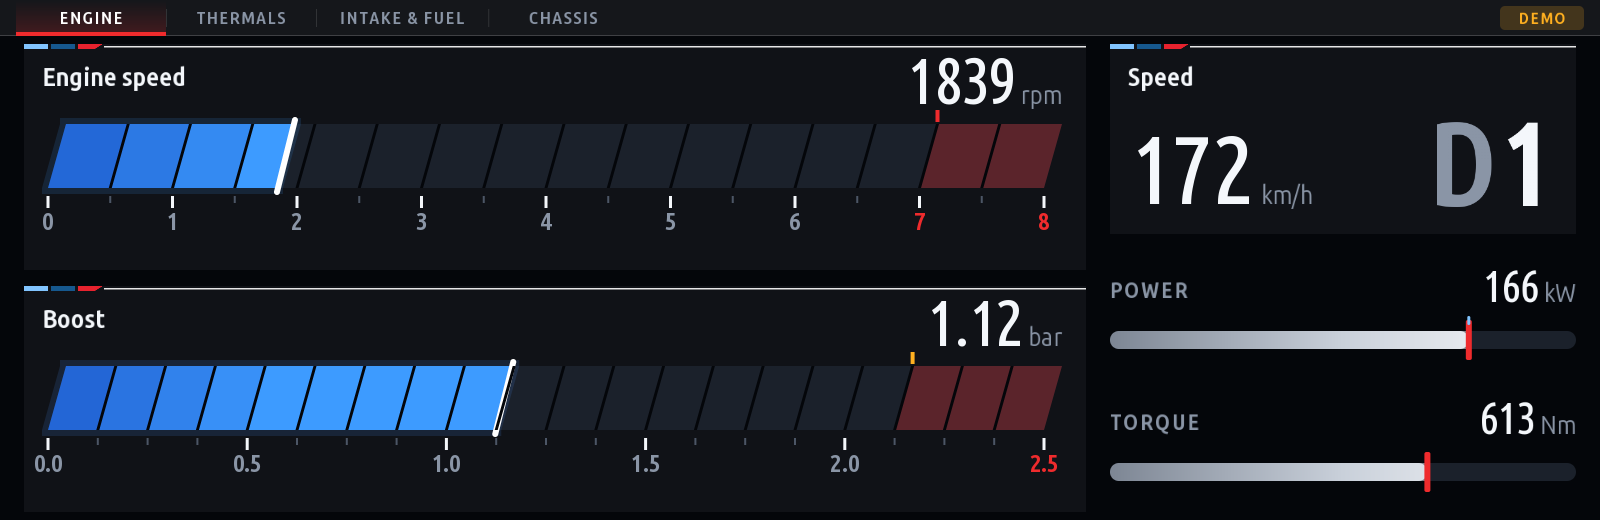
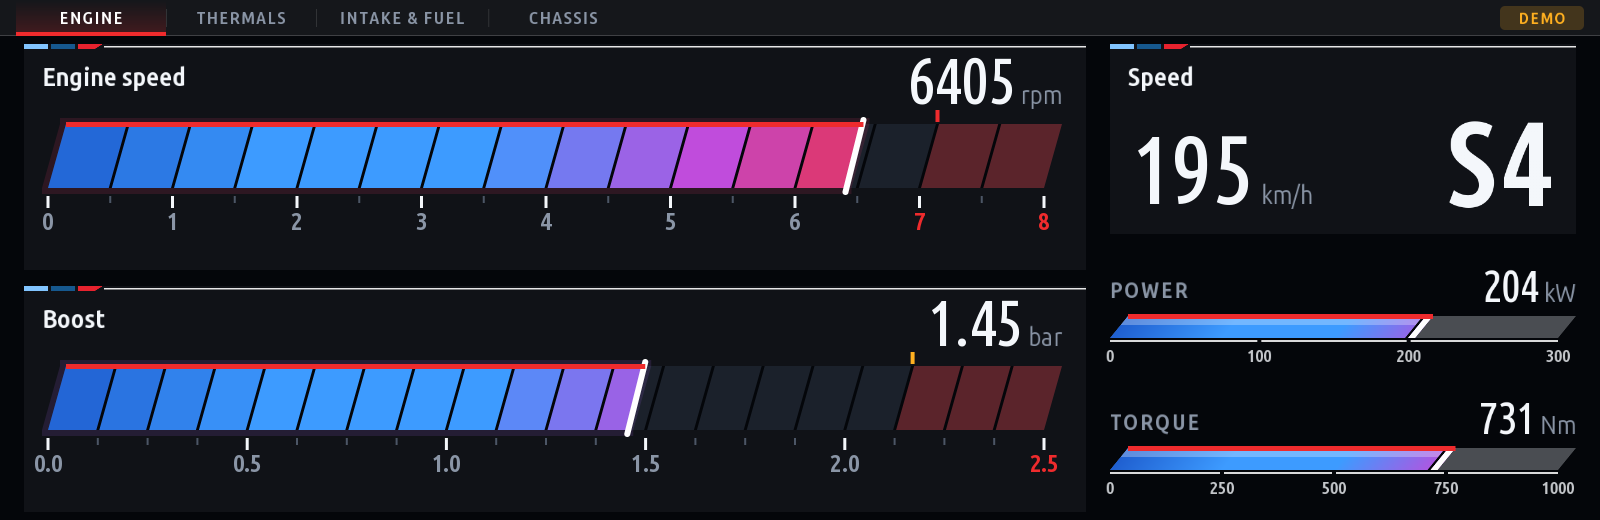
OEM-style bars with peak hang and tach colours (M Vitals, G-Force, Warm-Up, eDrive, Redline)
- Bars in the G20 sport-display style: slanted grey track, fill with a lighter upper half
  and a white leading stripe, white scale line broken at each step with numbers, scale
  ending on a round number (niceMax)
- Fill in the tach colours along the scale (theme hotRamp: blue -> purple -> red in
  M Tricolour) for power, torque, rpm, boost, G-Force, xDrive, battery health and the
  Warm-Up dials (red from 120 deg C); worn battery still turns amber / red
- Peak "hang" like the OEM display: a thick line along the top edge to the peak and
  down its slanted end (red in M Tricolour, the fill colour in the other themes);
  hidden for peaks in the first 2 % of the scale. Redline tach: only the slanted mark
- M Vitals demo data keeps its own peaks, so they never mix with the car's
- Versions bumped; README screenshots updated

Claude-Session: https://claude.ai/code/session_01G89YVjbLtqWwckvonFV4nZ

diff --git a/kit/runtime/gauges.js b/kit/runtime/gauges.js
@@ -134,32 +134,68 @@ function radialLive(cv, t, cx, cy, r, g, min, max, thick, v, f) {
     if (isNum(g.peak) && g.showPeak !== false) cv.text('PEAK ' + fmt(g.peak, g.decimals), cx, cy + r * 0.82 + 32, 22, t.accent2, { align: 'center', font: 'label', spacing: 1 });
 }
 
-/** Horizontal bar gauge with label / value header: a slim rounded track filled with the theme ramp. */
+/** Nice scale step (1, 2, 2.5, 5 x 10^n) for about n divisions of max. */
+function niceStep(max, n) {
+    const raw = max / n, e = Math.pow(10, Math.floor(Math.log10(raw)));
+    return [1, 2, 2.5, 5, 10].map((m) => m * e).find((v) => v >= raw * 0.999) || raw;
+}
+
+/** Slanted slab (OEM bar shape): x0..x1 measured on the bottom edge, top edge shifted right by sl. */
+function slab(cv, x0, x1, y, h, sl, c) {
+    if (x1 - x0 <= 0) return;
+    for (let r = 0; r < h; r++) cv.fillRect(x0 + sl * (h - r - 0.5) / h, y + r, x1 - x0, 1, c);
+}
+
+/**
+ * Bar gauge in the OEM (G20 sport display) style: label / value header, a slanted grey track,
+ * the fill in the theme's bar colour (lighter upper half) ending in a white stripe, a white
+ * scale line under it with numbers, and the peak ("hang") as an outline along the top edge.
+ * g.niceMax: extend the scale to the next round number (0-400 rather than 0-285).
+ * g.ramp = 'hot': fill in the tach colours along the scale (the theme's hotRamp) instead of one colour;
+ * g.color: fill colour (theme key or #hex) instead of the theme's bar colour.
+ */
 function bar(cv, t, x, y, w, h, g) {
-    const min = g.min || 0, max = g.max == null ? 100 : g.max, v = g.value;
+    const min = g.min || 0, v = g.value;
+    let max = g.max == null ? 100 : g.max;
+    const step = g.step || niceStep(max - min, 4);
+    if (g.niceMax) max = min + Math.ceil((max - min) / step - 1e-9) * step;       // scale ends on a round number (OEM)
     const f = isNum(v) ? clamp((v - min) / (max - min), 0, 1) : 0;
     cv.text(String(g.label || '').toUpperCase(), x, y + 26, 22, t.dim, { font: 'bold', spacing: 2 });
     const vs = fmt(v, g.decimals);
     const uw = g.unit ? cv.textWidth(' ' + g.unit, 26) : 0;
     cv.text(vs, x + w - uw, y + 30, 44, isNum(v) ? t.text : t.dim, { align: 'right', font: 'num' });
     if (g.unit) cv.text(' ' + g.unit, x + w, y + 30, 26, t.dim, { align: 'right' });
-    const room = h - 44, bh = Math.max(8, Math.min(room, 18)), by = y + 44 + (room - bh) / 2;
-    cv.roundRect(x, by, w, bh, bh / 2, t.track);
+    const bh = 22, by = y + 44, SL = 18, bw = w - SL;
+    const X = (val) => x + clamp((val - min) / (max - min), 0, 1) * bw;
+    slab(cv, x, x + bw, by, bh, SL, withAlpha('#d4d8de', 0.34));               // track
+    const base = g.color ? t[g.color] || g.color : t.bar || t.accent, col = zoneColor(t, g, v, base);
+    const stops = g.ramp === 'hot' && col === base ? t.hotRamp || t.ramp : null;
+    // fill: lighter upper part, white stripe at the leading edge (gap in the background colour)
     if (f > 0) {
-        const col = zoneColor(t, g, v);
-        const fw = Math.max(bh, w * f);
-        // rounded start, square end, so the '|' marker sits on a straight edge
-        const sq = Math.min(fw, bh / 2 + 1);
-        if (col !== t.accent || !t.ramp) { cv.roundRect(x, by, fw, bh, bh / 2, col); cv.fillRect(x + fw - sq, by, sq, bh, col); }
-        else { cv.rampRect(x, by, fw, bh, bh / 2, t.ramp, x, w); cv.rampRect(x + fw - sq, by, sq, bh, 0, t.ramp, x, w); }
-        // marker: theme colour, white when the bar itself is red / warning-coloured (else it would vanish)
-        const mk = col === t.crit || col === t.warn || col === t.marker ? t.text : t.marker || t.text;
-        cv.roundRect(x + fw - 3, by - 11, 6, bh + 22, 2, mk);
+        const xe = X(v), cap = 7, hi = mix(col, '#ffffff', 0.28), top = Math.round(bh * 0.42);
+        if (stops) {                                 // colour of its position on the scale, lighter upper part
+            const lite = stops.map((c) => mix(c, '#ffffff', 0.28));
+            for (let r = 0; r < bh; r++) { const o = SL * (bh - r - 0.5) / bh; cv.rampRect(x + o, by + r, xe - x, 1, 0.5, r < top ? lite : stops, x + o, bw); }   // r 0.5: full cover on a 1 px row
+        } else {
+            slab(cv, x, xe, by, bh, SL, col);
+            for (let r = 0; r < top; r++) cv.fillRect(x + SL * (bh - r - 0.5) / bh, by + r, xe - x, 1, hi);
+        }
+        if (xe - x > cap + 4) { slab(cv, xe - cap - 3, xe - cap, by, bh, SL, t.bg); slab(cv, xe - cap, xe, by, bh, SL, '#ffffff'); }
     }
-    if (isNum(g.peak)) {
-        const px = x + clamp((g.peak - min) / (max - min), 0, 1) * w;
-        cv.roundRect(px - 1.5, by - 15, 3, 9, 1.5, t.accent2);              // peak: small tick above the bar
+    // peak hold ("hang"): line along the top edge (over the fill) to the peak, then down its slanted end
+    if (isNum(g.peak) && (g.peak - min) / (max - min) > 0.02) {          // (not for a peak at the very start)
+        const px = X(g.peak), hc = t.hang || (stops ? ramp(stops, (px - x) / bw) : col);
+        cv.fillRect(x + SL, by - 2, px - x, 5, hc);
+        if (!isNum(v) || g.peak > v) cv.line(px + SL, by, px, by + bh, 4, hc);
     }
+    // scale: white line under the bar, broken at each step, numbers below (when there is room)
+    const dec = g.scaleDecimals != null ? g.scaleDecimals : step % 1 ? 1 : 0;
+    const marks = [];
+    for (let a = min; a <= max + 1e-9; a += step) marks.push(a);
+    if (max - marks[marks.length - 1] > step * 0.45) marks.push(max);           // label the end too
+    cv.fillRect(x, by + bh + 2, bw, 2, withAlpha('#ffffff', 0.85));
+    marks.slice(1).forEach((a) => { if (a < max - 1e-9) cv.fillRect(X(a) - 2, by + bh + 2, 4, 2, t.bg); });
+    if (h >= 80) marks.forEach((a) => cv.text(fmt(a, dec), X(a), by + bh + 24, 17, withAlpha(t.text, 0.8), { align: 'center', font: 'bold' }));
 }
 
 /**
@@ -201,9 +237,14 @@ function segBar(cv, t, x, y, w, h, g) {
         cv.line(xe, y1 + 4, xe + SL, y0 - 4, 6, '#ffffff');                  // bright leading edge
     }
     for (let a = min + step; a < max - 1e-9; a += step) gapAt(a, t.bg);
-    // marks above the bar (shift point, warm, ...) + peak
+    // peak hold ("hang", OEM style): line along the top edge (over the fill) to the peak, then down its slanted end
+    if (isNum(g.peak) && (g.peak - min) / (max - min) > 0.02) {          // (not for a peak at the very start)
+        const pk = Math.min(g.peak, max), pc = t.hang || (hot && pk >= lim ? '#ff2a2a' : hot ? ramp(t.hotRamp || t.ramp, clamp((pk - min) / (lim - min), 0, 1)) : zoneColor(t, g, pk, base));
+        cv.fillRect(bx + SL, y0 - 2, X(pk) - bx, 5, pc);
+        if (!isNum(v) || g.peak > v) cv.line(X(pk) + SL, y0, X(pk), y1, 4, pc);
+    }
+    // marks above the bar (shift point, warm, ...)
     for (const m of g.marks || []) { const xx = X(m.value) + SL; cv.fillRect(xx - 2, y0 - 14, 4, 12, t[m.color] || m.color); }
-    if (isNum(g.peak) && g.peak > min) { const xx = X(g.peak) + SL; cv.fillRect(xx - 1.5, y0 - 20, 3, 14, t.accent2); }
     // scale
     const sc = g.scale || {};
     for (let a = min; a <= max + 1e-9; a += step) {

diff --git a/apps/car_vitals/main.js b/apps/car_vitals/main.js
@@ -63,7 +63,7 @@ mgu.run({
         };
 
         /* ---------- live data ---------- */
-        const live = {}, peak = {}, hist = { coolant: [], oil: [], gearbox: [], ambient: [], iat: [], hpfp: [], lpfp: [], iatRise: [] };
+        const live = {}, peak = {}, demoPeak = {}, hist = { coolant: [], oil: [], gearbox: [], ambient: [], iat: [], hpfp: [], lpfp: [], iatRise: [] };
 
         // xDrive card: 'auto' shows it once the car has reported all-wheel drive (remembered),
         // so rear-wheel-drive cars never see an empty card
@@ -251,17 +251,20 @@ mgu.run({
             const red = settings.get('redline');
             const max = Math.ceil((red + 1000) / 1000) * 1000;
             const showPk = settings.get('peaks');
+            // demo data keeps its own peaks, so they never mix with the car's
+            const pk = usingDemo() ? demoPeak : peak;
+            if (usingDemo()) ['rpm', 'boost', 'torque'].forEach((k) => { if (G.isNum(d[k]) && !(pk[k] >= d[k])) pk[k] = d[k]; });
             // rpm + boost as tach bars (Redline style): theme colour -> red at the redline / warning zone
             G.segBar(cv, t, 24, G.TOP, 1062, 226, {
                 label: 'Engine speed', value: d.rpm, unit: 'rpm', decimals: 0, min: 0, max, step: 500,
                 scale: { every: 1000, div: 1000 }, ramp: 'hot', limit: red, marks: [{ value: red, color: 'crit' }],
-                peak: showPk ? peak.rpm : null,
+                peak: showPk ? pk.rpm : null,
             });
             const psi = settings.get('pressUnit') === 'psi', pmax = psi ? 36 : 2.5;
             G.segBar(cv, t, 24, G.TOP + 242, 1062, 226, {
                 label: 'Boost', value: P(d.boost), unit: settings.get('pressUnit'), decimals: psi ? 1 : 2, min: 0, max: pmax,
                 step: psi ? 2 : 0.125, scale: { every: psi ? 6 : 0.5, decimals: psi ? 0 : 1 }, ramp: 'hot', limit: pmax * 0.85,
-                marks: [{ value: pmax * 0.85, color: 'warn' }], peak: showPk ? P(peak.boost) : null,
+                marks: [{ value: pmax * 0.85, color: 'warn' }], peak: showPk ? P(pk.boost) : null,
             });
             const x = 1110, w = 466;
             G.panel(cv, t, x, G.TOP, w, 190, 'Speed');
@@ -280,10 +283,10 @@ mgu.run({
             const pw = power(d), powMax = PW(settings.get('maxPower'));
             if (G.isNum(pw.kw)) peakPower = Math.max(peakPower || 0, pw.kw);
             G.bar(cv, t, x, 272, w, 92, {
-                label: pw.calc ? 'Power (torque x rpm)' : 'Power', value: PW(pw.kw), unit: pwU(), max: powMax,
+                label: pw.calc ? 'Power (torque x rpm)' : 'Power', value: PW(pw.kw), unit: pwU(), max: powMax, niceMax: true, ramp: 'hot',
                 peak: showPk && G.isNum(peakPower) ? PW(peakPower) : null,
             });
-            G.bar(cv, t, x, 404, w, 92, { label: 'Torque', value: d.torque, unit: 'Nm', max: 900, peak: showPk ? peak.torque : null });
+            G.bar(cv, t, x, 404, w, 92, { label: 'Torque', value: d.torque, unit: 'Nm', max: 900, niceMax: true, ramp: 'hot', peak: showPk ? pk.torque : null });
         }
 
         function drawThermal(cv, t, d) {
@@ -353,8 +356,8 @@ mgu.run({
                 cv.text(mode, ax + 24, 160, 52, hot ? t.crit : t.text, { font: 'bold' });
                 if (hot) cv.text('DERATED / OFF', ax + 24, 196, 22, t.crit, { font: 'bold', spacing: 1.5 });
                 const rear = d.splitRear;
-                G.bar(cv, t, ax + 24, 262, aw - 48, 80, { label: 'Rear', value: rear, unit: '%' });
-                G.bar(cv, t, ax + 24, 392, aw - 48, 80, { label: 'Front', value: G.isNum(rear) ? 100 - rear : null, unit: '%' });
+                G.bar(cv, t, ax + 24, 262, aw - 48, 80, { label: 'Rear', value: rear, unit: '%', ramp: 'hot' });
+                G.bar(cv, t, ax + 24, 392, aw - 48, 80, { label: 'Front', value: G.isNum(rear) ? 100 - rear : null, unit: '%', ramp: 'hot' });
             }
         }
 
@@ -401,7 +404,7 @@ mgu.run({
 
         ui.onClick('BTN_PAGE', () => { page = (page + 1) % PAGES.length; return render(); });
         ui.onClick('BTN_PREV', () => { page = (page + PAGES.length - 1) % PAGES.length; return render(); });
-        ui.onClick('BTN_PEAKS', () => { Object.keys(peak).forEach((k) => delete peak[k]); peakPower = null; trail.length = 0; return render(); });
+        ui.onClick('BTN_PEAKS', () => { [peak, demoPeak].forEach((o) => Object.keys(o).forEach((k) => delete o[k])); peakPower = null; trail.length = 0; return render(); });
         let loop = ctx.loop('MAIN', settings.get('fps'), render);
         settings.onChange((k) => {
             if (k === 'maxPower' || k === 'powerSource') peakPower = null;

diff --git a/kit/runtime/themes.js b/kit/runtime/themes.js
@@ -3,7 +3,7 @@
  * themes.js - colour schemes for kit-drawn screens. Picked per app in its
  * settings ("theme"); unknown ids fall back to M Tricolour, the default.
  * oil = colour of oil temperature (red in M Tricolour, so it stands apart from the blue coolant).
- * sel = selected tab (selText = its name, default sel), marker = the '|' at the end of a bar / on a chart.
+ * bar = fill of the OEM-style bars, hang = their peak hold (default: the fill colour), sel = selected tab (selText = its name, default sel), marker = the '|' at the end of a bar / on a chart.
  * ramp = colours a bar runs through from low to high; hotRamp = a dial's arc, running
  * from the theme colour to red at the dial's limit (redline, max boost, ...).
  */
@@ -13,7 +13,7 @@ const THEMES = {
         bg: '#050506', panelTop: '#17181c', panelBottom: '#0d0d10', panelEdge: '#2a2b31',
         tab: '#e6e6e6', track: '#222329', tick: '#5a5c64', text: '#ffffff', dim: '#8e9199',
         accent: '#e1001a', accent2: '#ff5a5f', ok: '#e1001a', warn: '#ffb31a', crit: '#ff1f1f', cold: '#3d8bff',
-        glow: '#e1001a55', stripes: ['#e1001a'], oil: '#e1001a', sel: '#e1001a', marker: '#ffffff', ramp: ['#7a0010', '#e1001a', '#ff5a64'],
+        glow: '#e1001a55', stripes: ['#e1001a'], oil: '#e1001a', bar: '#d7001a', sel: '#e1001a', marker: '#ffffff', ramp: ['#7a0010', '#e1001a', '#ff5a64'],
         hotRamp: ['#7a0010', '#b00016', '#e1001a', '#ff2030', '#ff5a64'],
     },
     m_tricolour: {
@@ -22,7 +22,7 @@ const THEMES = {
         tab: '#e6e6e6', track: '#1b212b', tick: '#4c5666', text: '#f4f7fb', dim: '#8a95a6',
         accent: '#f4f7fb', accent2: '#81c4ff', ok: '#f4f7fb', warn: '#ffb020', crit: '#ef2b2d', cold: '#7fd1ff',
         glow: '#ffffff40', stripes: ['#81c4ff', '#16588e', '#e7222e'], oil: '#ef2b2d', ramp: ['#7d8694', '#c9d0da', '#ffffff'],
-        sel: '#ef2b2d', selText: '#ffffff', marker: '#ef2b2d',
+        bar: '#a8101c', hang: '#ef2b2d', sel: '#ef2b2d', selText: '#ffffff', marker: '#ef2b2d',
         hotRamp: ['#1f5fd0', '#3d9bff', '#3d9bff', '#c04cdc', '#ef2b2d'],
     },
     ice: {
@@ -30,7 +30,7 @@ const THEMES = {
         bg: '#050607', panelTop: '#1a1c20', panelBottom: '#0d0e10', panelEdge: '#2e3138',
         tab: '#ffffff', track: '#24262b', tick: '#62666e', text: '#ffffff', dim: '#9aa0a8',
         accent: '#e9f2ff', accent2: '#ffffff', ok: '#e9f2ff', warn: '#ffc94d', crit: '#ff4040', cold: '#8fd3ff',
-        glow: '#e9f2ff40', stripes: ['#e9f2ff'], oil: '#e9f2ff', sel: '#ffffff', marker: '#ffffff', ramp: ['#6d7785', '#c9d6e6', '#ffffff'],
+        glow: '#e9f2ff40', stripes: ['#e9f2ff'], oil: '#e9f2ff', bar: '#c9d3df', sel: '#ffffff', marker: '#ffffff', ramp: ['#6d7785', '#c9d6e6', '#ffffff'],
         hotRamp: ['#6d7785', '#c9d6e6', '#e9f2ff', '#ff9a9a', '#ff4040'],
     },
     amber: {
@@ -38,7 +38,7 @@ const THEMES = {
         bg: '#060504', panelTop: '#1a1815', panelBottom: '#0d0c0a', panelEdge: '#2e2a24',
         tab: '#ffb000', track: '#25221d', tick: '#655d50', text: '#ffe2b0', dim: '#9a8a70',
         accent: '#ff9d00', accent2: '#ffc65c', ok: '#ff9d00', warn: '#ffd000', crit: '#ff3b1f', cold: '#7fb7ff',
-        glow: '#ff9d0050', stripes: ['#ff9d00'], oil: '#ff9d00', sel: '#ff9d00', marker: '#ffe2b0', ramp: ['#8a4b00', '#ff9d00', '#ffd27a'],
+        glow: '#ff9d0050', stripes: ['#ff9d00'], oil: '#ff9d00', bar: '#ff9d00', sel: '#ff9d00', marker: '#ffe2b0', ramp: ['#8a4b00', '#ff9d00', '#ffd27a'],
         hotRamp: ['#8a4b00', '#ff9d00', '#ff9d00', '#ff6a1f', '#ff3b1f'],
     },
 };

diff --git a/apps/warmup/main.js b/apps/warmup/main.js
@@ -102,16 +102,16 @@ mgu.run({
 
         /* ---------- drawing ---------- */
         /**
-         * Temperature as a tach bar (Redline style), 0-150 deg C in 10 deg segments: oil in the theme's
-         * oil colour throughout (cold only tints the track), coolant blue while cold; warn / crit
-         * zones when hot; green mark where it counts as warm.
+         * Temperature as a tach bar (Redline style), 0-150 deg C in 10 deg segments in the tach colours
+         * (blue -> purple -> red at 120 deg C, solid red above); cold / warn / crit zones tint the
+         * track, green mark where it counts as warm.
          */
-        function gauge(cv, t, y, val, label, warm, oil) {
+        function gauge(cv, t, y, val, label, warm) {
             const st = F() ? 18 : 10;
             G.segBar(cv, t, 24, y, 880, 225, {
                 label, value: T(val), unit: tU(), decimals: 0, min: T(0), max: T(150), step: st, scale: { every: st * 2.5 },
-                zones: [{ from: T(-50), to: T(warm - 0.01), color: 'cold', tintOnly: !!oil }, { from: T(120), to: T(135), color: 'warn' }, { from: T(135), to: T(160), color: 'crit' }],
-                color: oil ? 'oil' : undefined, marks: [{ value: T(warm), color: GO }],
+                zones: [{ from: T(120), to: T(135), color: 'warn' }, { from: T(135), to: T(160), color: 'crit' }],
+                ramp: 'hot', limit: T(120), marks: [{ value: T(warm), color: GO }],
             });
         }
 
@@ -137,7 +137,7 @@ mgu.run({
             const t = ctx.theme(), d = car.data(), now = Date.now();
             const cv = new Canvas(W, H).clear(t.bg);
             const warm = settings.get('warmOil'), warmC = settings.get('warmCoolant');
-            gauge(cv, t, G.TOP, d.oil, 'Oil', warm, true);
+            gauge(cv, t, G.TOP, d.oil, 'Oil', warm);
             gauge(cv, t, G.TOP + 242, d.coolant, 'Coolant', warmC);
 
             // ---- status panel

diff --git a/apps/redline/main.js b/apps/redline/main.js
@@ -187,8 +187,8 @@ mgu.run({
 
             // ---- rev bar: left to right; theme colour -> red at the shift point, solid red above.
             // Each 500 rpm segment takes the colour of its position (stepped like the G20).
+            const hot = t.hotRamp || t.ramp;
             if (G.isNum(rpm) && rpm > 50) {
-                const hot = t.hotRamp || t.ramp;
                 const colOf = (r) => (shiftNow ? '#ff2a2a' : ramp(hot, G.clamp(r / sp.rpm, 0, 1)));
                 band(cv, 0, rpm, withAlpha(colOf(rpm), 0.14), 7);                               // glow
                 for (let r = 0; r < rpm; r += 500) band(cv, r, Math.min(rpm, r + 500), colOf(r + 250));
@@ -196,7 +196,12 @@ mgu.run({
                 const x = BAR.x0 + barX(rpm);
                 cv.line(x, BAR.y1 + 4, x + BAR.slant, BAR.y0 - 4, 6, '#ffffff');               // bright leading edge
             }
-            if (peakRpm > 0) { const x = BAR.x0 + barX(peakRpm) + BAR.slant; cv.fillRect(x - 1.5, BAR.y0 - 22, 3, 16, t.accent2); }
+            // peak: a slanted line across the bar at the highest rpm (no line along the top on the tach)
+            if (peakRpm > 0 && !(G.isNum(rpm) && rpm >= peakRpm)) {
+                const pk = Math.min(peakRpm, maxRpm()), px = BAR.x0 + barX(pk);
+                const pc = t.hang || (pk >= sp.rpm ? '#ff2a2a' : ramp(hot, G.clamp(pk / sp.rpm, 0, 1)));
+                cv.line(px + BAR.slant, BAR.y0, px, BAR.y1, 3, pc);
+            }
 
             // ---- centre: digital rpm above the bar, gear below it
             const rw = cv.text(G.isNum(rpm) ? String(Math.round(rpm / 10) * 10) : '----', GX - 30, 198, 80, G.isNum(rpm) ? (shiftNow ? '#ff4a4a' : t.text) : t.dim, { align: 'center', font: 'num' });

diff --git a/apps/gforce/main.js b/apps/gforce/main.js
@@ -134,12 +134,10 @@ mgu.run({
             cv.text('g', 680 + cw, 199, 36, t.dim);
             const bars = [['LATERAL', G.isNum(cur.lat) ? Math.abs(cur.lat) : null, G.isNum(cur.lat) ? (cur.lat >= 0 ? 'L' : 'R') : ''],
                 ['LONGITUDINAL', G.isNum(cur.long) ? Math.abs(cur.long) : null, G.isNum(cur.long) ? (cur.long >= 0 ? 'ACC' : 'BRK') : '']];
+            // OEM-style bars; the hang is this session's peak on the side it is pulling to now
+            const pk = [cur.lat >= 0 ? S.peak.left : S.peak.right, cur.long >= 0 ? S.peak.acc : S.peak.brk];
             bars.forEach(([l, v, side], i) => {
-                const y = 261 + i * 98;
-                cv.text(l + '  ' + side, 672, y, 20, t.dim, { font: 'bold', spacing: 1.5 });
-                cv.text(G.fmt(v, 2), 1044, y + 4, 40, G.isNum(v) ? t.text : t.dim, { align: 'right', font: 'num' });
-                cv.roundRect(672, y + 20, 372, 16, 8, t.track);
-                if (G.isNum(v)) cv.roundRect(672, y + 20, Math.max(16, 372 * G.clamp(v / settings.get('scale'), 0, 1)), 16, 8, i ? t.accent : t.accent2);
+                G.bar(cv, t, 672, 235 + i * 98, 372, 92, { label: l + '  ' + side, value: v, decimals: 2, max: settings.get('scale'), ramp: 'hot', peak: pk[i] });
             });
             const d = car.data();
             cv.text(G.fmt(V(d.speed), 0) + (mph() ? ' mph' : ' km/h') + '   ·   ' + G.fmt(d.rpm, 0) + ' rpm', 672, 491, 22, t.dim, { font: 'bold', spacing: 1 });

diff --git a/apps/edrive/main.js b/apps/edrive/main.js
@@ -390,7 +390,7 @@ mgu.run({
             cv.text('%', bx + 32 + hw, 178, 32, t.dim, { font: 'bold' });
             cv.text(G.isNum(soh) ? 'of the capacity it had new' : 'not readable - see Diagnostics', bx + 24, 214, 20, t.dim);
             G.bar(cv, t, bx + 24, 227, bw - 48, 68, {
-                label: 'Holds', value: cap, unit: 'kWh', decimals: 1, max: kwh,
+                label: 'Holds', value: cap, unit: 'kWh', decimals: 1, max: kwh, ramp: 'hot',     // tach colours; amber / red when worn
                 zones: [{ from: 0, to: kwh * 0.7, color: 'crit' }, { from: kwh * 0.7, to: kwh * 0.8, color: 'warn' }],
             });
             cv.text('of ' + kwh + ' kWh new', bx + bw - 24, 323, 18, t.dim, { align: 'right' });
